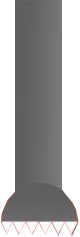
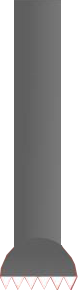
Added sound effects and lengthened piston sprite

Changed region(s): [[0.0, 0.0, 1.0, 1.0], [0.6923, 0.7679, 0.7179, 0.7975]]

diff --git a/piston.js b/piston.js
@@ -16,11 +16,12 @@ function piston() {
         this.cap = this.player.getComponent("movement").tierCap; // Changed to lowercase
         this.base = this.parent;
         this.origin = this.base.y;
-        this.goal = this.origin + 142;   //WAS +160
+        this.goal = this.origin + 110;   //WAS +160
         this.spike = this.base.getComponent("spikes"); // Changed to lowercase
 
         this.spike.onCollision = function (other) {
             if (other.name == "Main Character") { // Changed to other.name == "Main Character"
+				AudioManager.play('resources/music/short death.mp3', "Piston Death", {loop: false});
                 sceneManager.play("Level 2"); // Implemented Death Hopefully
             }
         }
@@ -36,6 +37,7 @@ function piston() {
             if (this.base.y >= this.goal) {
                 this.base.setTransform({y: this.goal})
                 this.down = false;
+				AudioManager.play('resources/music/Bass Hit.mp3', "Piston Impact", {loop: false});
             }
         }
         else {
@@ -65,11 +67,12 @@ function pistonUp() {
         this.cap = this.player.getComponent("movement").tierCap; // Changed to lowercase
         this.base = this.parent;
         this.origin = this.base.y;
-        this.goal = this.origin - 142;   //WAS 160
+        this.goal = this.origin - 110;   //WAS 160
         this.spike = this.base.getComponent("spikes"); // Changed to lowercase
 
         this.spike.onCollision = function (other) {
             if (other.name == "Main Character") { // Changed to other.name == "Main Character"
+			AudioManager.play('resources/music/short death.mp3', "Piston Death", {loop: false});
                 sceneManager.play("Level 2"); // Implemented Death Hopefully
             }
         }

diff --git a/scenes.js b/scenes.js
@@ -12,12 +12,15 @@ var TransitionLevel = new Scene("Transition Level");
 TransitionLevel.onLoad = function()
 {
   TransitionLevel.add(go_transition, {x:320, y:240});
+  AudioManager.play('resources/music/waaauup.mp3', "Transition Sound", {loop: false});
+  AudioManager.setVolume("Level 1 Song", 0);
 }
 
 //Level 1
 var Level_1 = new Scene("Level 1");
 Level_1.onLoad = function()
 {
+  AudioManager.setVolume("Level 1 Song", 1);
   Level_1.add(go_character, {x:320, y:240, name: "Main Character"});
   Level_1.add(go_room01, {x:320, y:240, z:-3});
   Level_1.add(go_lockedDoor1, {x:40, y:240, z:-3});
@@ -28,6 +31,7 @@ Level_1.onLoad = function()
 var Level_2 = new Scene("Level 2");
 Level_2.onLoad = function()
 {
+  AudioManager.setVolume("Level 1 Song", 1);
   Level_2.add(go_character, {x:120, y:240, name: "Main Character"});
   Level_2.add(go_room02, {x:320, y:240, z:-3});
   Level_2.add(go_lockedDoor2, {x:30, y:230, z:-2});

diff --git a/resources.js b/resources.js
@@ -40,8 +40,8 @@ var spr_chainDoorRightSmall = new Sprite('resources/images/LockedDoorRight.png',
 
 var spr_chainDoorRight = new Sprite('resources/images/LockedDoorRight.png', {width: 41, height: 110});
 
-var spr_piston =  new Sprite('resources/images/pistonPlaceholder.png', {width: 80, height: 237});
-var spr_piston_up =  new Sprite('resources/images/pistonPlaceholderUp.png', {width: 80, height: 237, rotationOffset: 180});
+var spr_piston =  new Sprite('resources/images/pistonPlaceholder.png', {width: 80, height: 290});
+var spr_piston_up =  new Sprite('resources/images/pistonPlaceholderUp.png', {width: 80, height: 290, rotationOffset: 180});
 
 // Rigid Body
 

diff --git a/oneButton.js b/oneButton.js
@@ -77,6 +77,7 @@ function oneButton() {
     this.openDoor = function () {
         door.getComponent("sprite").image.src = 'resources/images/OpenDoorLeft.png';
         door.getComponent("sprite").height = 110;
+		AudioManager.play('resources/music/waaap.mp3', "Open Door Sound", {loop: false});
         //door.getComponent("body").turnIntoTrigger();
         isOpen = true;
         console.log(door.getComponent("body"));
